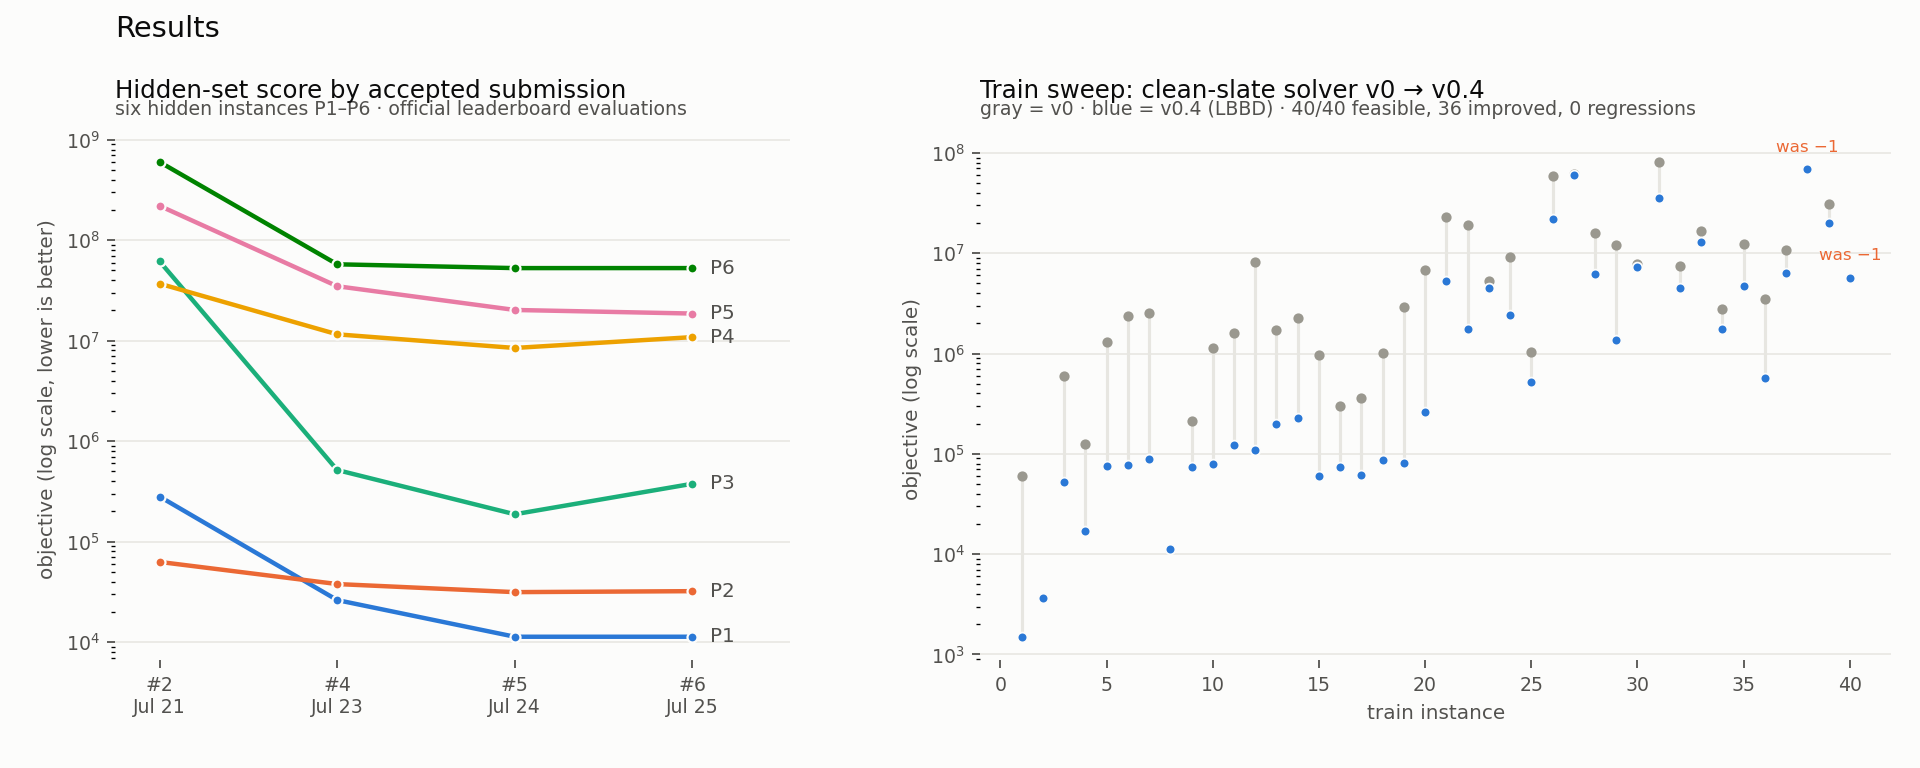
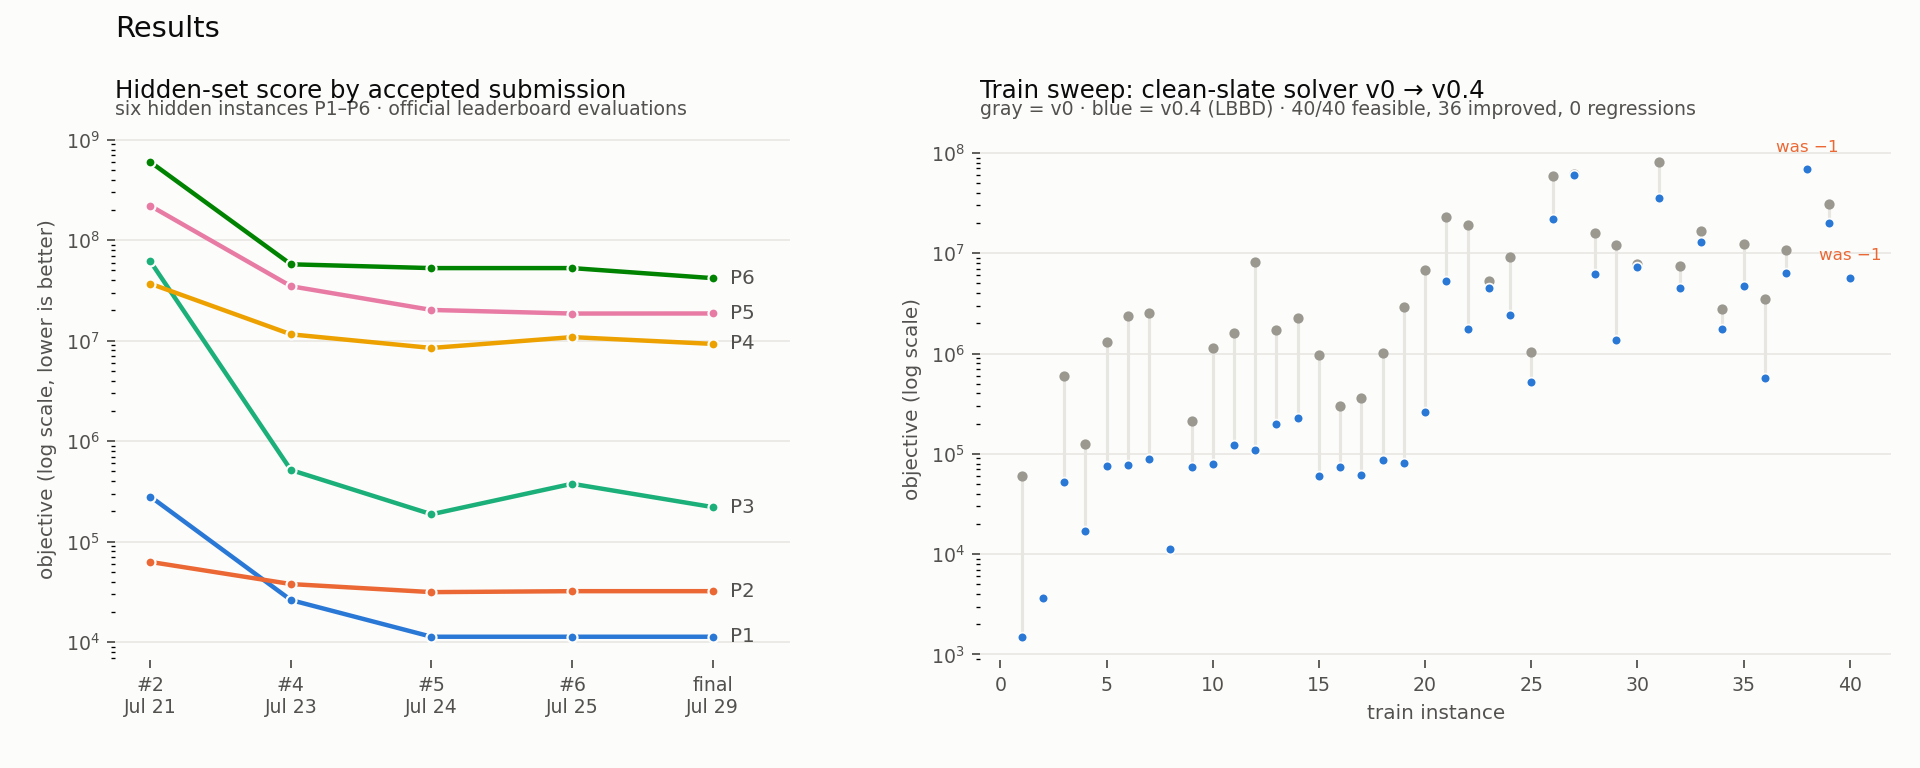
Record final hidden-set server results; update README and figures

diff --git a/docs/make_results_fig.py b/docs/make_results_fig.py
@@ -26,15 +26,17 @@ THEMES = {
                  suffix="_dark"),
 }
 
-# --- data: hidden-set lineage (results/2026-07-26_submission_lineage.md) ----
-attempts = ["#2\nJul 21", "#4\nJul 23", "#5\nJul 24", "#6\nJul 25"]
+# --- data: hidden-set lineage (results/2026-07-26_submission_lineage.md and
+# results/2026-07-29_final_server_results.md) --------------------------------
+attempts = ["#2\nJul 21", "#4\nJul 23", "#5\nJul 24", "#6\nJul 25",
+            "final\nJul 29"]
 hidden = {
-    "P1": [280494, 26150, 11280, 11280],
-    "P2": [62696, 37748, 31368, 32068],
-    "P3": [61634834, 515798, 186910, 376241],
-    "P4": [36957614, 11570444, 8462228, 10854126],
-    "P5": [220176080, 34867084, 20226241, 18630178],
-    "P6": [601627045, 57616192, 52808786, 52828500],
+    "P1": [280494, 26150, 11280, 11280, 11280],
+    "P2": [62696, 37748, 31368, 32068, 32068],
+    "P3": [61634834, 515798, 186910, 376241, 220494],
+    "P4": [36957614, 11570444, 8462228, 10854126, 9289080],
+    "P5": [220176080, 34867084, 20226241, 18630178, 18663403],
+    "P6": [601627045, 57616192, 52808786, 52828500, 41948328],
 }
 
 

diff --git a/README.md b/README.md
@@ -20,7 +20,7 @@
 
 | | |
 |---|---|
-| **Objective reduction** | **1–2 orders of magnitude** on the official hidden evaluation set over four submission cycles (P3: 61.6M → 187K, −99.7%) |
+| **Objective reduction** | **1–2 orders of magnitude** on the official hidden evaluation set, first accepted entry → final result (P3: 61.6M → 220K, −99.6%; P6: 602M → 41.9M, −93%) |
 | **Reliability** | **100% feasibility** — zero rejected solutions across every accepted evaluation and all 40 training instances |
 | **Optimality** | Proven-optimal certificates on structured instances (LBBD master bound closed); certified lower bounds elsewhere |
 | **Robustness** | Entry point engineered to **never crash, never time out, never return unverified work** — hard watchdogs, process-group kills, audited fallbacks |
@@ -101,21 +101,26 @@ time tail. The entry point never raises and never returns `None`.
 
 Submissions are scored by the organizers on **six hidden instances (P1–P6)**,
 disjoint from the 40 published training instances. Four submissions were
-accepted; every accepted run returned a feasible solution on all six instances.
+accepted, then the standing CHIMERA entry received the official final
+evaluation. Every run returned a feasible solution on all six instances.
 Best score per instance in **bold**:
 
 | Submission | Date (UTC) | P1 | P2 | P3 | P4 | P5 | P6 |
 |---|---|---:|---:|---:|---:|---:|---:|
 | #2 — first accepted | Jul 21 | 280,494 | 62,696 | 61,634,834 | 36,957,614 | 220,176,080 | 601,627,045 |
 | #4 | Jul 23 | 26,150 | 37,748 | 515,798 | 11,570,444 | 34,867,084 | 57,616,192 |
-| #5 — frozen hedge | Jul 24 | **11,280** | **31,368** | **186,910** | **8,462,228** | 20,226,241 | **52,808,786** |
-| #6 — CHIMERA (standing) | Jul 25 | **11,280** | 32,068 | 376,241 | 10,854,126 | **18,630,178** | 52,828,500 |
+| #5 — frozen hedge | Jul 24 | **11,280** | **31,368** | **186,910** | **8,462,228** | 20,226,241 | 52,808,786 |
+| #6 — CHIMERA | Jul 25 | **11,280** | 32,068 | 376,241 | 10,854,126 | **18,630,178** | 52,828,500 |
+| **Final** — CHIMERA, official evaluation | Jul 29 | **11,280** | 32,068 | 220,494 | 9,289,080 | 18,663,403 | **41,948,328** |
 
-From the first accepted submission to the best score: **−96% (P1), −50% (P2),
-−99.7% (P3), −77% (P4), −92% (P5), −91% (P6)**. The per-instance winners split
-between the last two entries — the frozen hedge leads on four instances, the
-CHIMERA entry improved a fifth — exactly the trade-off the two-line
-architecture was designed to navigate.
+From the first accepted submission to the final result: **−96% (P1), −49%
+(P2), −99.6% (P3), −75% (P4), −92% (P5), −93% (P6)**. The final evaluation of
+the same CHIMERA zip came in materially better than its Jul 25 evaluation on
+P3/P4/P6 (−41%/−14%/−21%) — consistent with the run-to-run timing
+nondeterminism documented on overloaded instances. Across all evaluations the
+per-instance bests still split between the two lines — the frozen hedge on
+P2/P3/P4, CHIMERA on P5/P6 — exactly the trade-off the two-line architecture
+was designed to navigate.
 
 ### Train-set benchmark (40 instances, 60 s limit)
 

diff --git a/ogc2026/baseline/results/2026-07-29_final_server_results.md b/ogc2026/baseline/results/2026-07-29_final_server_results.md
@@ -1,0 +1,41 @@
+# Final hidden-set results — official server evaluation
+
+**Stamp:** 2026-07-29. **Provenance:** transcribed verbatim from the final
+server results message (organizer evaluation of the standing accepted
+submission, attempt 6 / CHIMERA entry — the last zip accepted per
+`2026-07-26_submission_lineage.md`). No local run produced these numbers.
+
+## Results
+
+All six hidden instances: "Feasible solution found" — zero −1.
+
+| instance | final objective |
+|---|---:|
+| P1 | 11,280.0 |
+| P2 | 32,068.0 |
+| P3 | 220,494.0 |
+| P4 | 9,289,080.0 |
+| P5 | 18,663,403.0 |
+| P6 | 41,948,328.0 |
+
+## vs the same entry's Jul 25 evaluation (lineage attempt 6)
+
+| instance | Jul 25 eval | final | delta |
+|---|---:|---:|---|
+| P1 | 11,280 | 11,280 | tie |
+| P2 | 32,068 | 32,068 | tie |
+| P3 | 376,241 | 220,494 | **−41%** |
+| P4 | 10,854,126 | 9,289,080 | **−14%** |
+| P5 | 18,630,178 | 18,663,403 | +0.2% |
+| P6 | 52,828,500 | 41,948,328 | **−21%** |
+
+Same submission, materially better P3/P4/P6 — consistent with the known
+run-to-run timing nondeterminism on overloaded instances (and/or different
+final-evaluation server conditions). Not evidence of a code change.
+
+## vs submission_5 (frozen hedge, best prior scores)
+
+Final beats the hedge's best on **P5 and P6**, ties P1, and trails on
+P2/P3/P4. Best-ever per instance across all evaluations: P1 11,280 (tie),
+P2 31,368 (#5), P3 186,910 (#5), P4 8,462,228 (#5), P5 18,630,178 (#6
+Jul 25 eval), P6 41,948,328 (final).
